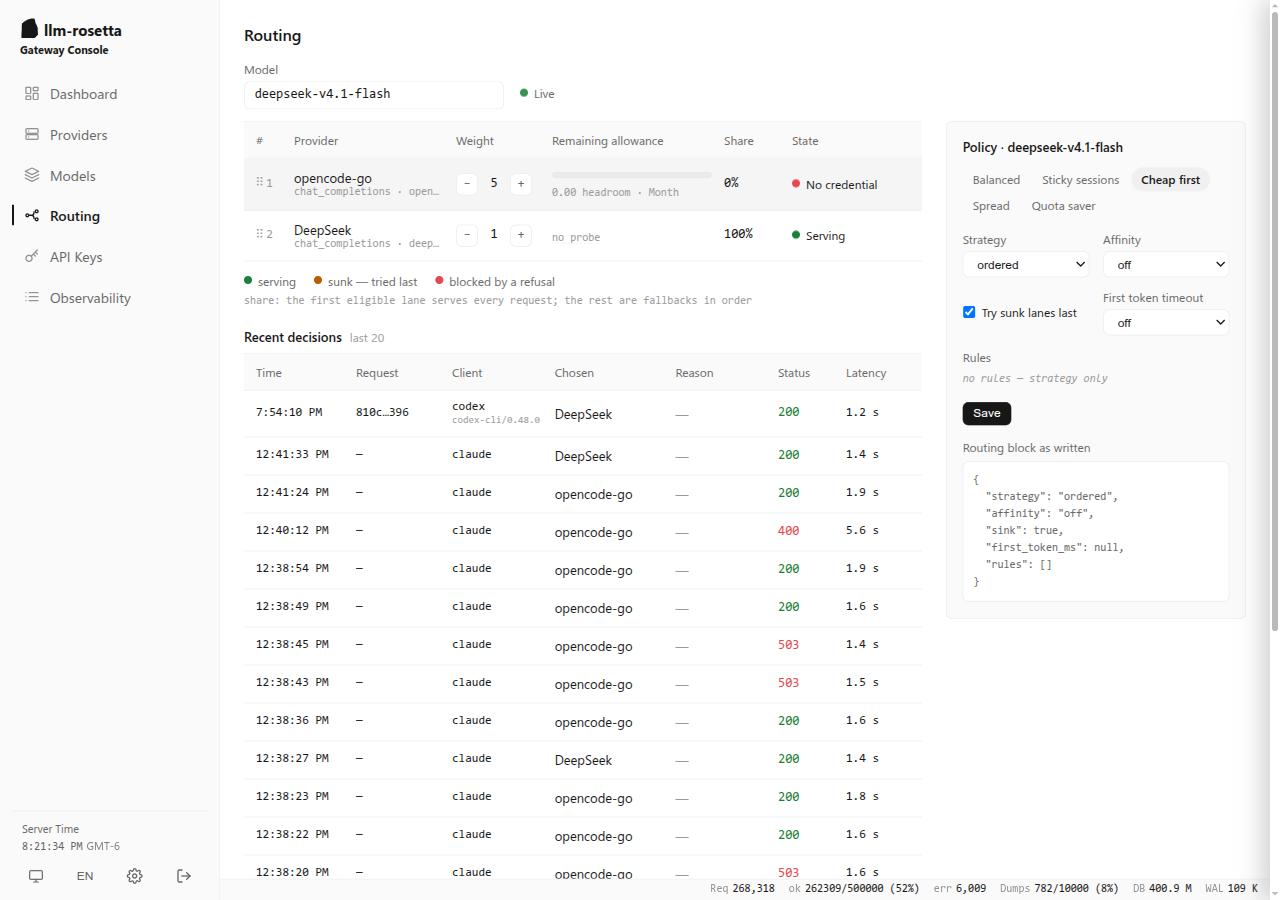
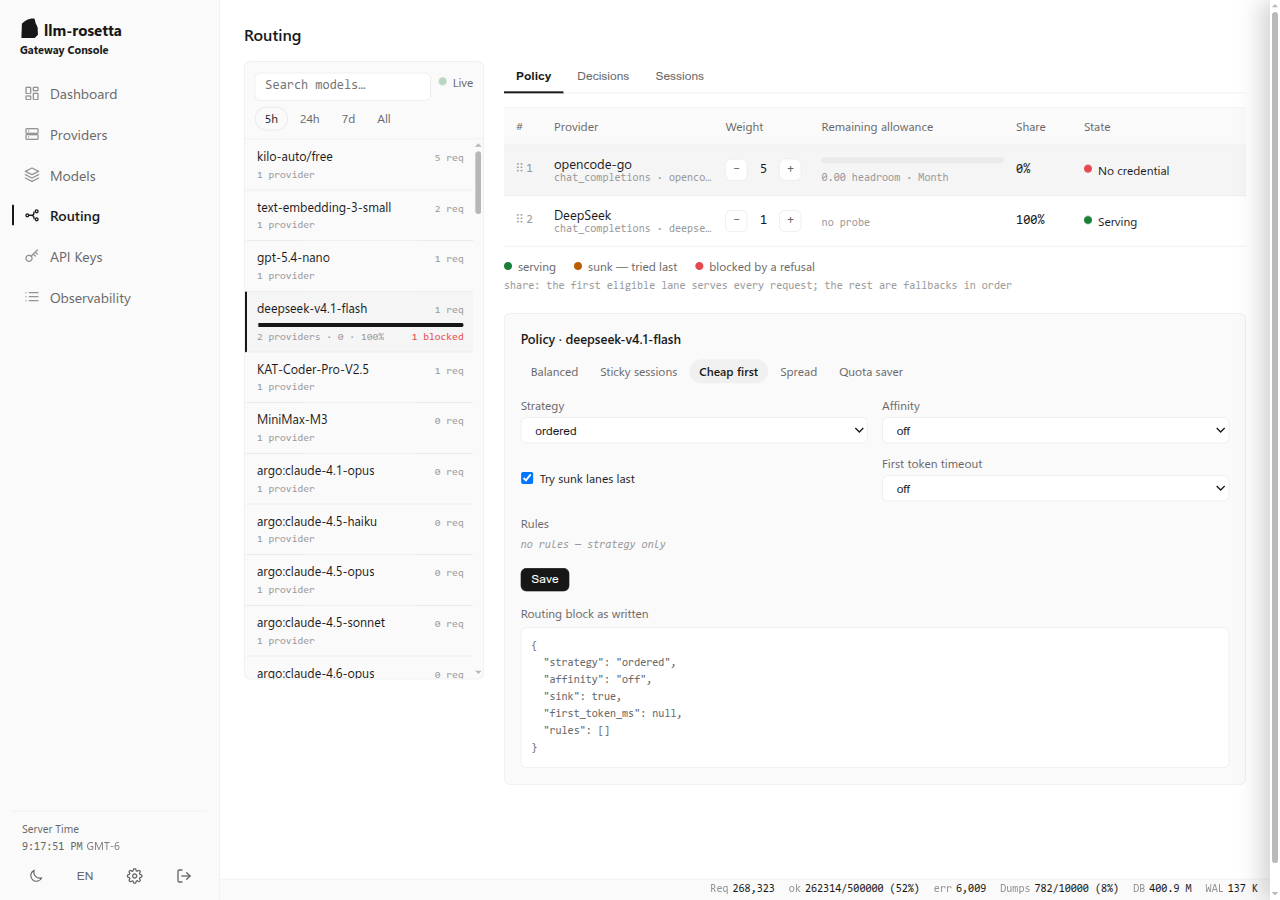
docs(admin): 路由页是模型列表加三个分页

diff --git a/docs/changelog.md b/docs/changelog.md
@@ -12,7 +12,7 @@ All notable changes to LLM-Rosetta are documented here. This project follows [Ke
 - **生成的轮次驱动流式往返**（epic [#1223](https://github.com/Oaklight/llm-rosetta/issues/1223)，issue [#1314](https://github.com/Oaklight/llm-rosetta/issues/1314)）：`tests/converters/test_stream_roundtrip.py` 把双腿一致性表里的每个轮次渲染成一条流会发出的事件序列，送经全部五个方言。两条性质：再一次经过同一方言不会改变任何东西（`read(write(read(write(events)))) == read(write(events))`，65 格），以及绕经另一个方言后能拿回那个轮次。事件序列跨方言不可比，因此跨格式那一半比较双腿一致性测试已定义的 `TurnView`。探针本身先要修：逐块喂给读取方时流从未关闭，Chat 被推迟的 `stream_end` 不会到达，最初 103 条差异里有 55 条是探针自己的问题。剩余 37 条跨格式差异逐条记入 `stream_roundtrip_losses.json` 并写明所属族的原因 —— 只挂在终止事件上的拒绝（8 条）、同样的文字被写进 text 部分（2 条）、终止原因按目标方言自己的词汇重新推导（15 条）、以及目标方言无法表达的调用：freeform 调用退化为 function 调用，server tool 调用无处承载（12 条）。固定点本身不足以说明问题 —— 先把内容全丢光、之后一直丢光的方言同样是固定点 —— 因此套件还把第一次输出与收到的轮次对齐：今天有 25 个字段在第一次输出时就变了，每条都写明原因。
 - **提供方条目级模型覆盖**（史诗 [#1322](https://github.com/Oaklight/llm-rosetta/issues/1322)，议题 [#1344](https://github.com/Oaklight/llm-rosetta/issues/1344)）：`providers[]` 的条目可以声明自己的 `capabilities`，资格判定会为需求不匹配的请求跳过它 —— 图片需要 `vision`，工具列表需要 `tools`，推理强度需要 `reasoning`。不匹配只作用于该请求，同一条目对其他请求仍是候选；未声明能力的条目继承提供方自身能力，因此配置中没有该字段时行为完全不变。所有候选都缺少所需能力时，路由返回 `400` 并写明缺少项，因为重试无法补上。模型抽屉的每个提供方行新增能力字段（留空表示继承），由 `POST /admin/api/config/models/<name>/update-provider` 校验（[配置](gateway/configuration.md#provider-capabilities)）。同一改动让连续 429 跟踪器的读取接受可注入的时间点，修复了一组用固定时间线对照系统时钟判断的测试。
 - **非 LLM 端点接入选择器**（史诗 [#1322](https://github.com/Oaklight/llm-rosetta/issues/1322)，议题 [#1343](https://github.com/Oaklight/llm-rosetta/issues/1343)）：嵌入、重排与决策模型可以声明多个提供方，但此前这些池只保留第一个，权重、配额和「第一个提供方已耗尽」对它们都不起作用。现在它们与聊天路由走同样的两个阶段 —— 先资格判定，再按声明权重选择锚点 —— 因此非 LLM 模型会按权重分配流量，并跳过状态已移除的提供方（配额耗尽、被阻塞，或连续 429 导致停用）。所有候选都不可用时返回 `503`（启动失败后为 `502`），已知恢复时间时带 `Retry-After`，而不是 `404`。开启 `failover_on_quota` 后，上游 `429` 会把请求移到下一个提供方，并计入聊天路由使用的同一条连续 429 规则；请求只写一次账本，由实际应答的那次尝试写入。`<type>_models` 仍记录第一个提供方，因此管理面板列表与旧版配置段保持不变（[配置](gateway/configuration.md#typed-routes)）。
-- **管理面板的路由页**（史诗 [#1322](https://github.com/Oaklight/llm-rosetta/issues/1322)，议题 [#1342](https://github.com/Oaklight/llm-rosetta/issues/1342)）：控制台的 **路由** 页按模型显示选择器的结论 —— 每个候选的状态（`serving`、`sunk`、`blocked`、`rate_limited`、`spent`、`no_credential`、`initializing`）、配置权重、它实际服务的份额与剩余额度（通道最接近耗尽的窗口，副行写出窗口名；通道上报多个窗口时点击轮换，悬停则逐窗列出剩余百分比与重置时间），以及来自请求日志的最近决策（每条带客户端的 key 标签与它发送的 `User-Agent`）。每个数字都来自 `GET /admin/api/routing/<model>`，浏览器不再自己重算路由结论；模型选择器是可路由模型（`GET /admin/api/routing`）上的搜索框，输入即可筛选。同一页用 `PUT` 写入模型的 `routing` 块，该请求会重建配置并运行与加载时相同的解析器，因此错误的值以解析器自己的消息返回。五个预设 —— 均衡、会话粘性、优先靠前、轮转分摊、配额节约 —— 写入配置词汇中的字面块；保存时保留编辑器不负责的键（`rules`、`first_token_ms`）。阻塞结束时间按秒倒计时，到期后列表自动刷新。列表的行可以拖动：松手写入模型的 `providers` 列表，也就是 `ordered` 路由的兜底顺序；份额一列报告策略自己的算法而不是原始权重 —— `ordered` 把全部份额给第一个可用通道，`rotate` 与 `least_used` 均分，`pace` 只看剩余额度（[管理面板](gateway/admin-panel.md#routing)）。
+- **管理面板的路由页**（史诗 [#1322](https://github.com/Oaklight/llm-rosetta/issues/1322)，议题 [#1342](https://github.com/Oaklight/llm-rosetta/issues/1342)）：控制台的 **路由** 页按模型显示选择器的结论 —— 每个候选的状态（`serving`、`sunk`、`blocked`、`rate_limited`、`spent`、`no_credential`、`initializing`）、配置权重、它实际服务的份额与剩余额度（通道最接近耗尽的窗口，副行写出窗口名；通道上报多个窗口时点击轮换，悬停则逐窗列出剩余百分比与重置时间），以及来自请求日志的最近决策（每条带客户端的 key 标签与它发送的 `User-Agent`）。每个数字都来自 `GET /admin/api/routing/<model>`，浏览器不再自己重算路由结论；模型选择器是可路由模型（`GET /admin/api/routing`）上的搜索框，输入即可筛选。同一页用 `PUT` 写入模型的 `routing` 块，该请求会重建配置并运行与加载时相同的解析器，因此错误的值以解析器自己的消息返回。五个预设 —— 均衡、会话粘性、优先靠前、轮转分摊、配额节约 —— 写入配置词汇中的字面块；保存时保留编辑器不负责的键（`rules`、`first_token_ms`）。阻塞结束时间按秒倒计时，到期后列表自动刷新。列表的行可以拖动：松手写入模型的 `providers` 列表，也就是 `ordered` 路由的兜底顺序；份额一列报告策略自己的算法而不是原始权重 —— `ordered` 把全部份额给第一个可用通道，`rotate` 与 `least_used` 均分，`pace` 只看剩余额度。页面打开时先给模型列表，而不是选择器：每行显示所选窗口统计的请求数（默认 5h，可切到 24h、7d 或全部）、提供方数量、它们的相对份额与被阻塞的通道数，列表按模型最近一次请求排序，打开页面时默认选中最近被请求的模型。右侧分为 **策略**、**决策**、**会话** 三个分页：点击一条决策会在下方展开链路，会话表按客户端身份折叠该模型的最近日志。提供方行在这里与模型页都可以拖动 —— 表格中的 **Multiple providers** 下拉与侧面板 —— 松手写入同一份 `providers` 列表（[管理面板](gateway/admin-panel.md#routing)）。
 - **按请求的规则**（史诗 [#1322](https://github.com/Oaklight/llm-rosetta/issues/1322)，议题 [#1341](https://github.com/Oaklight/llm-rosetta/issues/1341)）：`models.<name>.routing.rules` 在模型自己的路由内移动单个请求 —— `{"when": {"images": true}, "use": "openrouter"}` 提升一个提供方，`{"when": {"time": {...}}, "pause": "argo"}` 为该请求丢弃一个提供方。条件有 `images`、`tokens_gte`、`effort_gte`、`agents` 与 `time`；同一个 `when` 中的每个条件都必须成立，第一条匹配的规则生效，没有规则匹配的请求照常落到策略。规则在锚点选定之后运行，因此与同格式分层是组合关系；它们读取请求的 **IR** 而不是源请求体，因此同一条规则在客户端使用任何方言时含义相同。规则只能点名模型已经列出的提供方 —— 点名其他提供方会让加载失败，未知的条件键同样如此。有两个已写入文档的近似事实：`tokens_gte` 比较的是序列化后 IR 的大小除以四（排除图片负载），因为网关没有分词器；`agents` 按不区分大小写的子串匹配客户端的 `x-rosetta-agent` 标签与 `User-Agent`。没有规则的模型不会付出任何代价：只有模型至少有一条规则时才会为规则求值构建 IR（[配置](gateway/configuration.md)）。
 - **模型级路由块**（史诗 [#1322](https://github.com/Oaklight/llm-rosetta/issues/1322)，议题 [#1340](https://github.com/Oaklight/llm-rosetta/issues/1340)）：`models.<name>.routing` 现在说明模型的提供方之间如何选择 —— `strategy`、`affinity`、`sink`、`first_token_ms` 与 `rules` —— 并且它是唯一说明这件事的地方。它在构建配置时解析一次，用的是管理面板保存路径上的同一个函数，因此未知键会让加载与保存报同样的消息。五种策略：`weighted`（默认，也是今天的行为）、`ordered`（总是第一个可用提供方）、`rotate`（普通轮询，忽略权重）、`least_used`（自路由建立以来服务次数最少）、以及 `pace`（只按剩余额度做加权轮询，忽略配置权重）。`affinity` 为 `off` 或 `session`；`session` 让同一客户端固定在一个提供方，且只能与 `weighted` 搭配，因为身份取代了逐请求的选择。`sink` 决定最近一次 429 是否让该模型的提供方排到最后 —— 提供方的*禁用*仍是进程级的。块之前的 `strategy` 字段仍会被读取（`affinity_round_robin` 等价于 `affinity: "session"`），同一模型同时写 `strategy` 与 `routing` 是错误，而不是谁优先的规则。`turn` 与 `strict` 已写入文档但尚未实现；加载时会按名称拒绝，而不是接受一个什么都不做的值；规则落地前，非空的 `rules` 列表会被拒绝（[配置](gateway/configuration.md)）。
 - **连续 429 会让一条通道退出轮换**（史诗 [#1322](https://github.com/Oaklight/llm-rosetta/issues/1322)，议题 [#1339](https://github.com/Oaklight/llm-rosetta/issues/1339)）：新增顶层 `routing.rate_limit` 配置块，规定连续拒绝时做什么，适用于每一条通道 —— 包括没有额度探针的提供方，它过去在 429 之后会被当作什么都没发生，下次照常重试。第一次拒绝会让提供方**下沉**（移到顺序末尾，但仍是候选，因此没有其他候选的路由仍能服务）；在 `window_s` 内的第 `after` 次拒绝会**禁用**它 `cooldown_s`，每次重复翻倍，直至 `cooldown_max_s`；一次成功会清除计数、翻倍阶梯与下沉状态。默认值为 `{"sink": true, "after": 3, "window_s": 300, "cooldown_s": 60, "cooldown_max_s": 900}`，配置块格式错误会在加载配置时失败，而不是等到第一次请求。拒绝按提供方**和**凭据分别计数 —— 通道有 key 时 429 记在真正触发它的凭据上，没有 key 时记在提供方上 —— 一个凭据被禁用、另一个凭据可用的提供方仍在轮换中，key 环会跳过被禁用的那个。状态与额度封锁放在一起（`quota/state.py`），不持久化，选择器只读不写。提供方卡片的额度按钮会显示两种状态：正在封锁显示为“跳过至 …… —— 连续 429”，被下沉的提供方显示为“最后尝试 —— 最近的 429 只让它靠后，未将其移出”（[额度](guide/quota.md)）。
